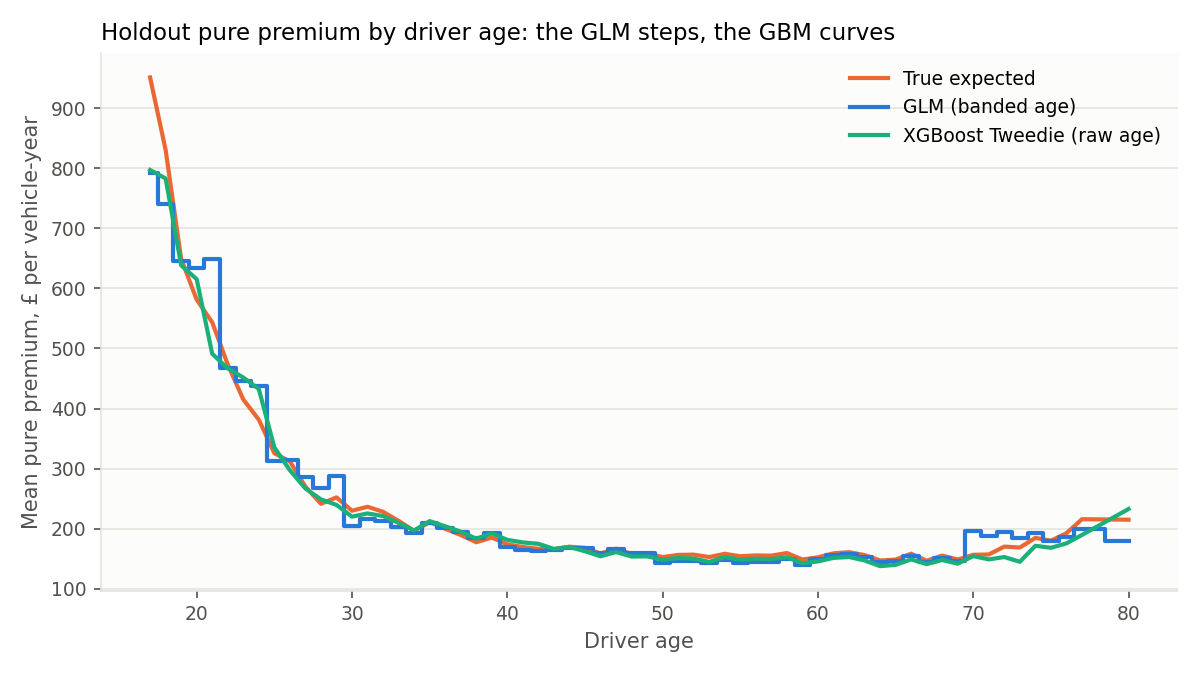
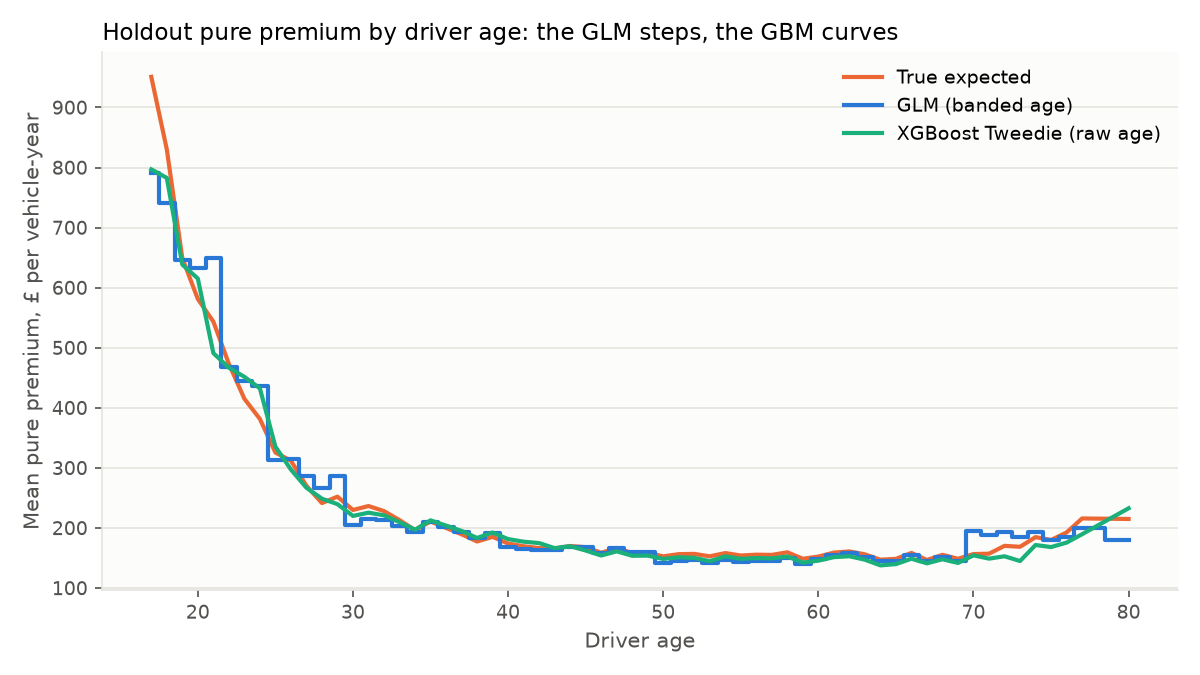
Regenerate pipeline outputs
Full re-run of the pipeline (phases A-E) on current library versions;
tables and figures updated with negligible floating-point differences.

diff --git a/reports/rating_factors.md b/reports/rating_factors.md
@@ -6,7 +6,7 @@ Multiplicative relativities from the frequency (Negative Binomial) and severity 
 
 **Base rate: £112.99** per vehicle-year: the technical price for the base risk (age 40-49, NCD 9+, VG2, North, 5-10k miles).
 
-Check: base rate x relativities reproduces the GLM technical price on every holdout policy (max relative difference 2.0e-15).
+Check: base rate x relativities reproduces the GLM technical price on every holdout policy (max relative difference 1.6e-15).
 
 ![Rating factor relativities](figures/rating_factor_relativities.png)
 
